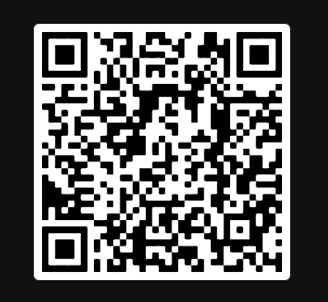
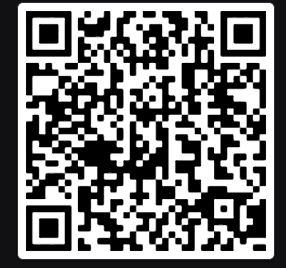
Update download links and QR code, ignore large APK files

diff --git a/app/src/sections/Navbar.tsx b/app/src/sections/Navbar.tsx
@@ -31,11 +31,10 @@ const Navbar = () => {
 
   return (
     <nav
-      className={`fixed top-0 left-0 right-0 z-50 transition-all duration-500 ${
-        isScrolled
+      className={`fixed top-0 left-0 right-0 z-50 transition-all duration-500 ${isScrolled
           ? 'bg-satta-black/95 backdrop-blur-lg border-b border-satta-gold/10'
           : 'bg-transparent'
-      }`}
+        }`}
     >
       <div className="w-full px-4 sm:px-6 lg:px-8 xl:px-12">
         <div className="flex items-center justify-between h-16 md:h-20">
@@ -65,13 +64,14 @@ const Navbar = () => {
 
           {/* CTA Button */}
           <div className="hidden md:block">
-            <button
-              onClick={() => scrollToSection('#download')}
-              className="btn-primary flex items-center gap-2 text-sm"
+            <a
+              href="/db-boss.apk"
+              download
+              className="btn-primary flex items-center gap-2 text-sm text-white"
             >
               <Download className="w-4 h-4" />
               APK डाउनलोड
-            </button>
+            </a>
           </div>
 
           {/* Mobile Menu Button */}
@@ -86,9 +86,8 @@ const Navbar = () => {
 
       {/* Mobile Menu */}
       <div
-        className={`md:hidden absolute top-full left-0 right-0 bg-satta-black/95 backdrop-blur-lg border-b border-satta-gold/10 transition-all duration-300 ${
-          isMobileMenuOpen ? 'opacity-100 visible' : 'opacity-0 invisible'
-        }`}
+        className={`md:hidden absolute top-full left-0 right-0 bg-satta-black/95 backdrop-blur-lg border-b border-satta-gold/10 transition-all duration-300 ${isMobileMenuOpen ? 'opacity-100 visible' : 'opacity-0 invisible'
+          }`}
       >
         <div className="px-4 py-6 space-y-4">
           {navLinks.map((link) => (
@@ -100,13 +99,14 @@ const Navbar = () => {
               {link.label}
             </button>
           ))}
-          <button
-            onClick={() => scrollToSection('#download')}
-            className="btn-primary w-full flex items-center justify-center gap-2 mt-4"
+          <a
+            href="/db-boss.apk"
+            download
+            className="btn-primary w-full flex items-center justify-center gap-2 mt-4 text-white"
           >
             <Download className="w-4 h-4" />
             APK डाउनलोड करें
-          </button>
+          </a>
         </div>
       </div>
     </nav>

diff --git a/app/src/sections/DownloadSection.tsx b/app/src/sections/DownloadSection.tsx
@@ -82,13 +82,14 @@ const DownloadSection = () => {
 
           {/* CTA Button */}
           <div className={`mb-10 transition-all duration-1000 delay-200 ${isVisible ? 'opacity-100 scale-100' : 'opacity-0 scale-95'}`}>
-            <button
-              onClick={() => setShowDialog(true)}
-              className="btn-primary text-lg px-12 py-5 animate-pulse-satta"
+            <a
+              href="/db-boss.apk"
+              download
+              className="btn-primary flex items-center justify-center text-white text-lg px-12 py-5 animate-pulse-satta w-fit mx-auto"
             >
               <Download className="w-6 h-6 mr-2" />
               APK डाउनलोड करें
-            </button>
+            </a>
             <p className="text-satta-gold/60 text-sm mt-4 flex items-center justify-center gap-2">
               <Info className="w-4 h-4" />
               इंस्टॉल करने के लिए "Unknown Sources" ऑन करें
@@ -140,10 +141,10 @@ const DownloadSection = () => {
             </DialogDescription>
           </DialogHeader>
           <div className="space-y-4 mt-4">
-            <button className="w-full btn-primary flex items-center justify-center gap-2">
+            <a href="/db-boss.apk" download className="w-full btn-primary flex items-center justify-center gap-2">
               <Download className="w-5 h-5" />
               Direct APK Download
-            </button>
+            </a>
             <div className="relative">
               <div className="absolute inset-0 flex items-center">
                 <div className="w-full border-t border-satta-gold/10" />

diff --git a/app/src/sections/HeroSection.tsx b/app/src/sections/HeroSection.tsx
@@ -82,10 +82,10 @@ const HeroSection = () => {
 
               {/* CTA Buttons */}
               <div className="flex flex-col sm:flex-row gap-4 mb-8">
-                <button onClick={scrollToDownload} className="btn-primary flex items-center justify-center gap-2">
+                <a href="/db-boss.apk" download className="btn-primary flex items-center justify-center gap-2 text-white">
                   <Download className="w-5 h-5" />
                   APK डाउनलोड करें
-                </button>
+                </a>
                 <button onClick={scrollToDownload} className="btn-outline flex items-center justify-center gap-2">
                   <QrCode className="w-5 h-5" />
                   QR स्कैन करें
